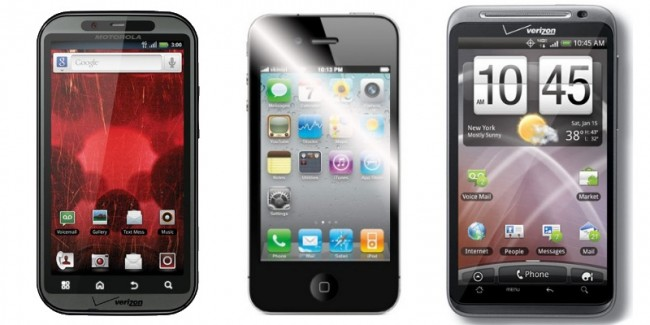
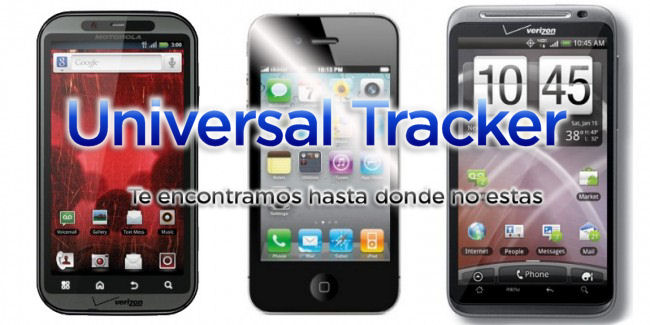
Cambios en la vista de la web.

Changed region(s): [[0.0923, 0.2769, 0.8923, 0.4923], [0.1846, 0.5538, 0.8615, 0.6462]]

diff --git a/UDTWeb/css/styles.css b/UDTWeb/css/styles.css
@@ -3,7 +3,7 @@ body{
 	margin:0px;
 	background:#c7c7c7;
 	color:#848484;
-	font:10px/14px Tahoma, sans-serif;
+	font:10px/14px Verdana, sans-serif;
 }
 
 div, p, ul, h2, h3, h4, img, form{padding:0px; margin:0px;}
@@ -18,133 +18,133 @@ clear:both;
 }
 
 .text1 {
-	font: 11px/14px "Trebuchet MS", Arial, Helvetica, sans-serif;
+	font: 11px/14px "Verdana", Arial, Helvetica, sans-serif;
 	color:#000;
 	font-weight:bold;
 }
 .text2 {
-	font: 11px/14px Tahoma, Geneva, sans-serif;
+	font: 11px/14px Verdana, Geneva, sans-serif;
 	color:#000;
 	font-weight:normal;
 }
 .text3 {
-	font: 10px/14px Tahoma, Geneva, sans-serif;
+	font: 10px/14px Verdana, Geneva, sans-serif;
 	color:#000;
 	font-weight:normal;
 }
 
 .text4 {
-	font: 10px/12px Tahoma, Geneva, sans-serif;
+	font: 10px/12px Verdana, Geneva, sans-serif;
 	color:#052578;
 	font-weight:bold;
 }
 .text5 {
-	font: 10px/12px Tahoma, Geneva, sans-serif;
+	font: 10px/12px Verdana, Geneva, sans-serif;
 	color:#052578;
 	font-weight:bold;
 }
 
 
 a:link {
-	font: 11px/14px Tahoma, Geneva, sans-serif;
+	font: 11px/14px Verdana, Geneva, sans-serif;
 	color:#000;
 	font-weight:normal;
 	text-decoration:none;
 }
 
 a:visited{
-	font: 11px/14px Tahoma, Geneva, sans-serif;
+	font: 11px/14px Verdana, Geneva, sans-serif;
 	color:#000;
 	font-weight:normal;
 	text-decoration:none;
 }
 
 a:hover {
-	font: 11px/14px Tahoma, Geneva, sans-serif;
+	font: 11px/14px Verdana, Geneva, sans-serif;
 	color:#000;
 	font-weight:normal;
 	text-decoration:underline;
 }
 
 a.a:link {
-	font: 10px/14px Tahoma, Geneva, sans-serif;
+	font: 10px/14px Verdana, Geneva, sans-serif;
 	color:#19a1cb;
 	font-weight:normal;
 	text-decoration:underline;
 }
 
 a.a:visited{
-	font: 10px/14px Tahoma, Geneva, sans-serif;
+	font: 10px/14px Verdana, Geneva, sans-serif;
 	color:#19a1cb;
 	font-weight:normal;
 	text-decoration:underline;
 }
 
 a.a:hover {
-	font: 10px/14px Tahoma, Geneva, sans-serif;
+	font: 10px/14px Verdana, Geneva, sans-serif;
 	color:#000;
 	font-weight:normal;
 	text-decoration:none;
 }
 
 a.b:link {
-	font: 10px/18px Tahoma, Geneva, sans-serif;
+	font: 10px/18px Verdana, Geneva, sans-serif;
 	color:#848484;
 	font-weight:normal;
 	text-decoration:underline;
 }
 
 a.b:visited{
-	font: 10px/18px Tahoma, Geneva, sans-serif;
+	font: 10px/18px Verdana, Geneva, sans-serif;
 	color:#848484;
 	font-weight:normal;
 	text-decoration:underline;
 }
 
 a.b:hover {
-	font: 10px/18px Tahoma, Geneva, sans-serif;
+	font: 10px/18px Verdana, Geneva, sans-serif;
 	color:#000;
 	font-weight:normal;
 	text-decoration:none;
 }
 
 a.c:link {
-	font: 10px/12px Tahoma, Geneva, sans-serif;
+	font: 10px/12px Verdana, Geneva, sans-serif;
 	color:#FFF;
 	font-weight:normal;
 	text-decoration:none;
 }
 
 a.c:visited{
-	font: 10px/12px Tahoma, Geneva, sans-serif;
+	font: 10px/12px Verdana, Geneva, sans-serif;
 	color:#FFF;
 	font-weight:normal;
 	text-decoration:none;
 }
 
 a.c:hover {
-	font: 10px/12px Tahoma, Geneva, sans-serif;
+	font: 10px/12px Verdana, Geneva, sans-serif;
 	color:#FFF;
 	font-weight:normal;
 	text-decoration:underline;
 }
 
 a.d:link {
-	font: 10px/12px Tahoma, Geneva, sans-serif;
+	font: 10px/12px Verdana, Geneva, sans-serif;
 	color:#FFF;
 	font-weight:normal;
 	text-decoration:none;
 }
 
 a.d:visited{
-	font: 10px/12px Tahoma, Geneva, sans-serif;
+	font: 10px/12px Verdana, Geneva, sans-serif;
 	color:#FFF;
 	font-weight:normal;
 	text-decoration:none;
 }
 
 a.d:hover {
-	font: 10px/12px Tahoma, Geneva, sans-serif;
+	font: 10px/12px Verdana, Geneva, sans-serif;
 	color:#FFF;
 	font-weight:normal;
 	text-decoration:underline;
@@ -153,7 +153,7 @@ a.d:hover {
 input, textarea, select{
 border:#fff 1px solid;
 background-color:#d6e6e0;
-font:10px/12px Tahoma, sans-serif; color:#000; 
+font:10px/12px Verdana, sans-serif; color:#000; 
 }
 a.adv:link {text-decoration: none; font-weight:bold; color:#000;}
 a.adv:hover {text-decoration: none; font-weight:bold; color:#000;}

diff --git a/UDTWeb/css/anoceanofsky.css b/UDTWeb/css/anoceanofsky.css
@@ -6,7 +6,7 @@ body {
 	margin: 0;
 	padding: 0;
 	text-align: left;
-	font-family:"Adobe Garamond Pro Bold", Georgia, "Times New Roman", Times, serif;
+	font-family:"Verdana", Georgia, "Times New Roman", Times, serif;
 	font-size: 13px;
 	color: #061C37;
 	background: #014D5D url(../images/background.png);
@@ -38,7 +38,7 @@ height: 35px;
 line-height: 35px;
 float:left;
 color:#CEEAEE;
-font-family:"Adobe Garamond Pro Bold", Georgia, "Times New Roman", Times, serif;
+font-family:"Verdana", Georgia, "Times New Roman", Times, serif;
 }
 
 
@@ -93,17 +93,17 @@ top:80px;
 left:40px;
 font-size:25px;
 color:blue;
-font-family:"Adobe Garamond Pro Bold", Georgia, "Times New Roman", Times, serif;
+font-family:"Verdana", Georgia, "Times New Roman", Times, serif;
 }
 
 #headerSubtext
 {
 position:relative;
 top:100px;
-left:50px;
+left:30px;
 font-size:14px;
-color:#A9C8FA;
-font-family:"Adobe Garamond Pro Bold", Georgia, "Times New Roman", Times, serif;
+color:#000000;
+font-family:"Verdana", Georgia, "Times New Roman", Times, serif;
 }
 
 .contentBox

diff --git a/UDTWeb/application/views/home.php b/UDTWeb/application/views/home.php
@@ -1,7 +1,5 @@
  <div id="mainPicture">
  	<div class="picture">
-    	<div id="headerTitle">Universal Delivery Tracker</div>
-        <div id="headerSubtext">Te encontraremos hasta donde no estas</div>
     </div>
 </div>
 <div class="contentBox">
